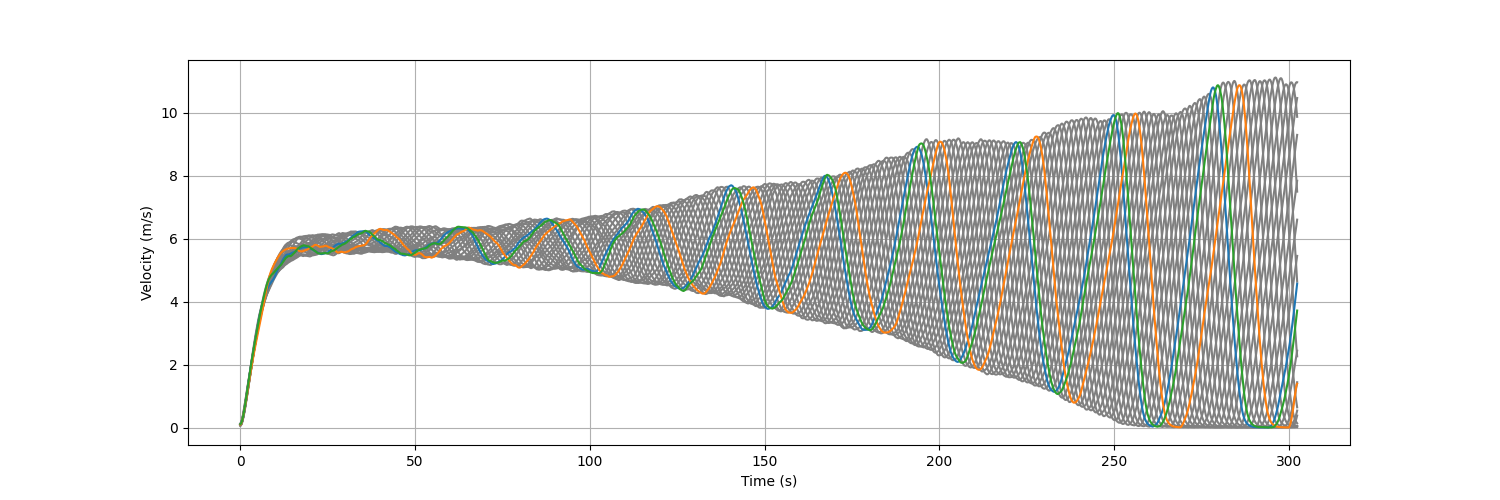
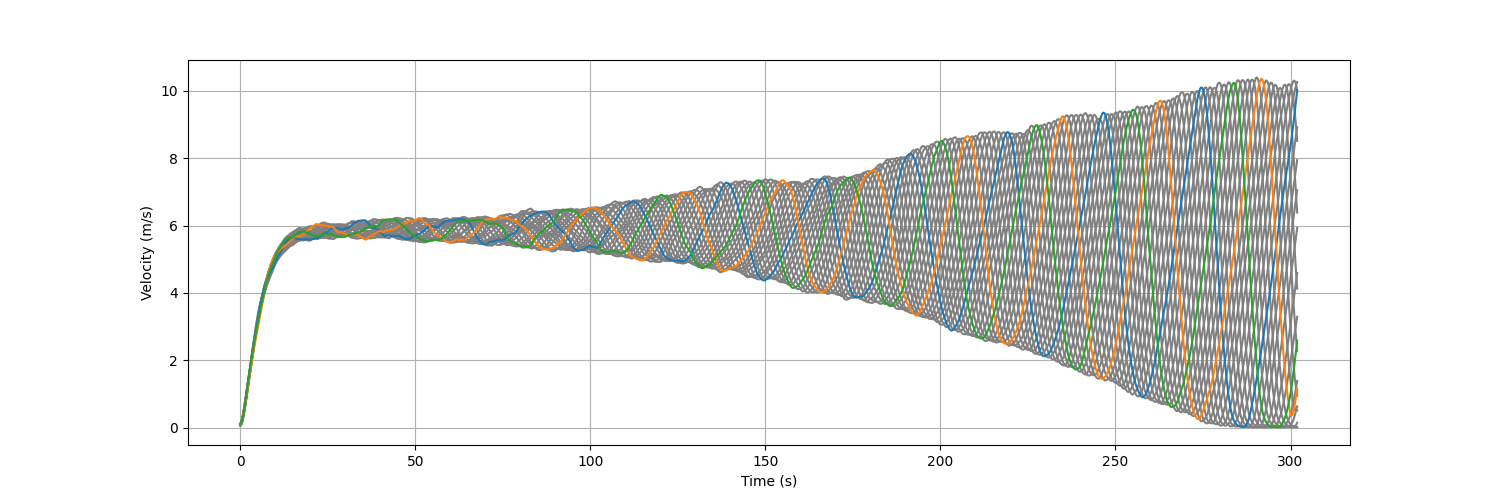
changing config

diff --git a/Ring_Road/envs/multiagent_ringroad.py b/Ring_Road/envs/multiagent_ringroad.py
@@ -155,7 +155,7 @@ class MultiAgentRingRoad(MultiAgentEnv):
             return {ag_id: 0 for ag_id in action.keys()}
 
         if self.collision:
-            return {ag_id: 0 for ag_id in action.keys()}
+            return {ag_id: -5 for ag_id in action.keys()}
 
         # reward average velocity
         eta_2 = 4.
@@ -177,9 +177,11 @@ class MultiAgentRingRoad(MultiAgentEnv):
             reward += eta * (accel_threshold - mean_actions)
 
         rew = {ag_id: reward for ag_id in self.agents.keys()}
-        # for ag_id, agent in self.agents.items():
-        #     if agent.v == 0:
-        #         rew[ag_id] = -2
+        for ag_id, agent in self.agents.items():
+            if agent.v == 0:
+                rew[ag_id] = {ag_id: reward for ag_id in self.agents.keys()}
+                break
+
         return rew
 
     def _destroy(self):

diff --git a/main.py b/main.py
@@ -31,7 +31,7 @@ def main():
 
     elif args.type == "multiagent_qmix_eval":
         scripts.multiagent_train_ppo.evaluate_qmix(
-            "/home/vamsi/Documents/GitHub/RingRoad-RL/Models/VDN/QMIX/QMIX_grouped_ringroad_f0ec2_00000_0_2022-05-04_08-20-22/checkpoint_000095/checkpoint-95", mixer)
+            "/home/vamsi/Documents/GitHub/RingRoad-RL/Models/VDN/QMIX/QMIX_grouped_ringroad_25680_00000_0_2022-07-16_11-41-35/checkpoint_000080/checkpoint-80", mixer)
     elif args.type == "eval_idm":
         scripts.evaluate_idm.evaluate()
 

diff --git a/Ring_Road/vehicle/state.py b/Ring_Road/vehicle/state.py
@@ -8,7 +8,7 @@ from Ring_Road.constants import RADIUS, CAR_LENGTH, RADIUS, AGENT_MAX_VELOCITY, 
 class StateExtractor:
     def __init__(self, env):
         self.env = env
-        self.delay = 0.5
+        self.delay = 0
 
     def gap_front(self, veh):
         if veh.front_vehicle.central_angle - veh.central_angle < 0:
